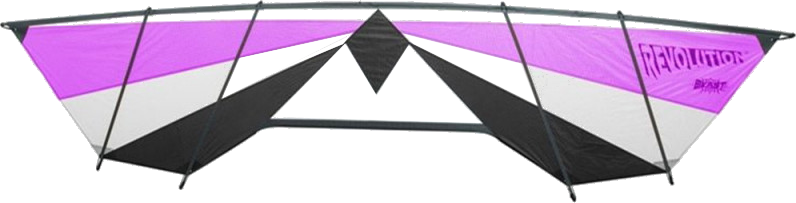
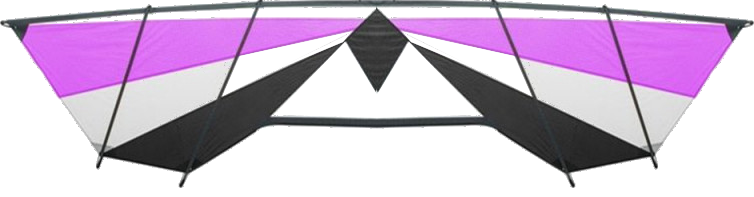
Remake the blast and start off right way up again.

Changed region(s): [[0.0, 0.0, 1.0, 1.0]]

diff --git a/assets/js/kites/patterns.js b/assets/js/kites/patterns.js
@@ -2,7 +2,7 @@ function M14() {
   reset();
 
   let s = new Stepper();
-  s.setStart(k, kImg);
+  s.setStart(k, kImg, 2);
 
   let slideCircle = {
     path: '#slideCircle',

diff --git a/_sass/_kites.scss b/_sass/_kites.scss
@@ -28,7 +28,6 @@
 
 #kite { 
     background-image: url("/assets/images/kites/blast.png");
-    transform: rotate(180deg);
     top: 0;
     left: 0;
 }
